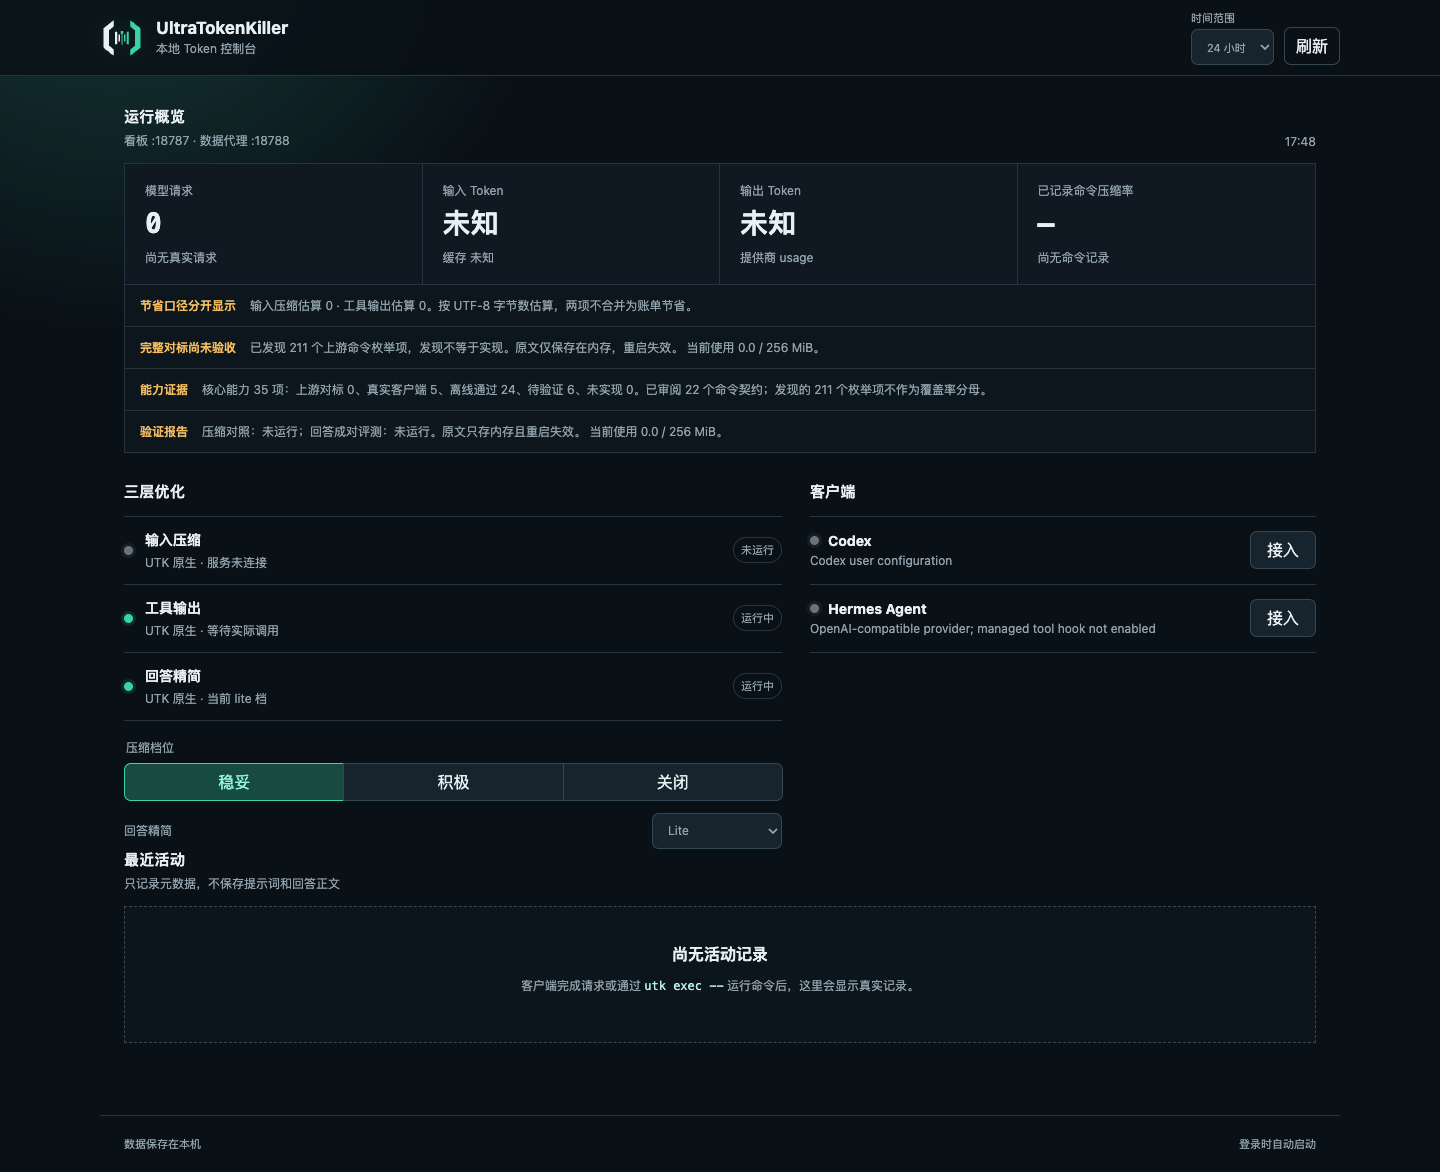
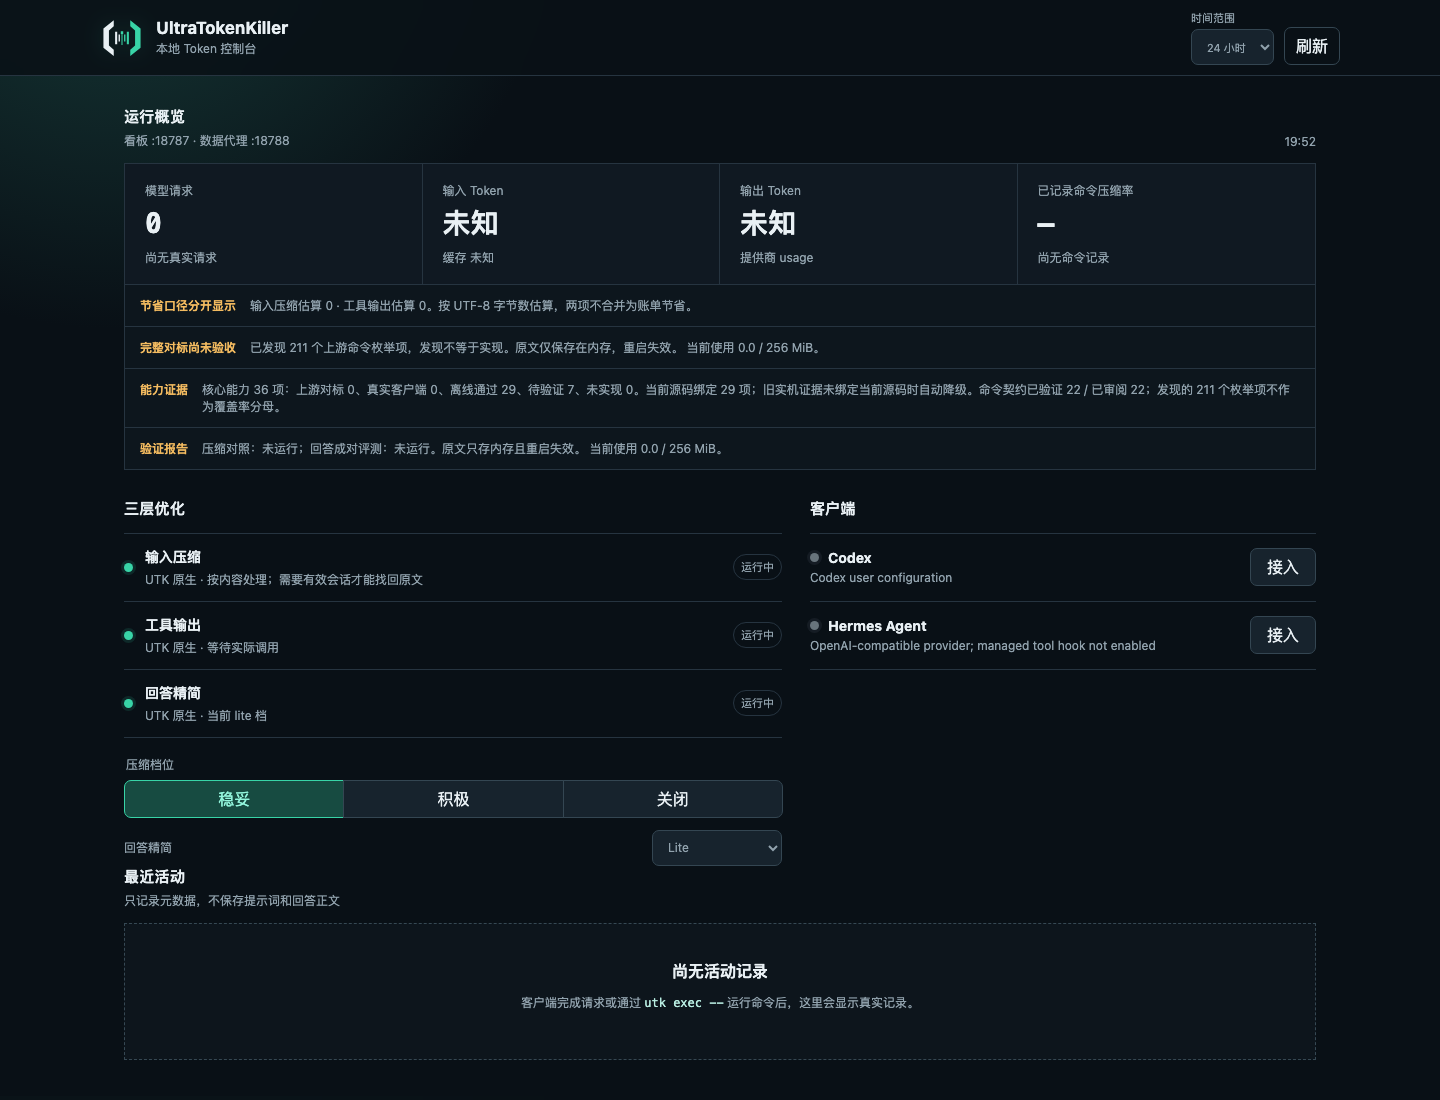
docs: refresh macOS acceptance evidence

diff --git a/docs/macos-arm64-stage1-2026-09-20.md b/docs/macos-arm64-stage1-2026-09-20.md
@@ -31,3 +31,21 @@
 - Codex 固定任务三次重复对照、API Key 路径和真实 WebSocket 多模态联动。
 - 登录自启、重复安装、升级失败回滚及卸载恢复。
 - Headroom、RTK、Caveman 全量能力清单对标。
+
+
+## 最新源码与安装器复验（`d4e37e9`）
+
+- 隔离仓库更新到 `d4e37e9`；macOS arm64 完整离线回归为 **207 passed, 1 skipped**。
+- Shell 安装器在系统 Python 不满足要求时，通过现有 `/opt/homebrew/bin/uv` 创建 Python **3.11.16** 环境。
+- 实机发现并修复了原子切换后 console script 仍引用 `venv.new` 的问题；修复后 `utk doctor`、`utk status`、`utk capabilities --json` 均返回 0。
+- 重复安装保留 `venv.previous`；安装前后的 Codex/Hermes 配置哈希及 LaunchAgent 清单一致。
+- 指定错误的离线 uv SHA-256 时安装器返回 1，明确报告 `Runtime helper checksum mismatch`，且不产生活动运行时。
+- 使用最新版打包页面重新生成 1440×1100 与 390×844 截图；能力状态为 36 项、离线通过 29 项、待验证 7 项、当前源码绑定 29 项、命令契约 22/22。
+- 本轮未调用模型、未安装或接入客户端、未创建 LaunchAgent；测试服务及隔离 Chrome 进程在验收后关闭。
+
+更新截图：
+
+- `docs/assets/dashboard-macos-arm64-desktop.png`
+- `docs/assets/dashboard-macos-arm64-mobile.png`
+
+截图数据性质：真实页面、隔离空状态；无提示词、回答正文、用户名、凭据或日常目录。
